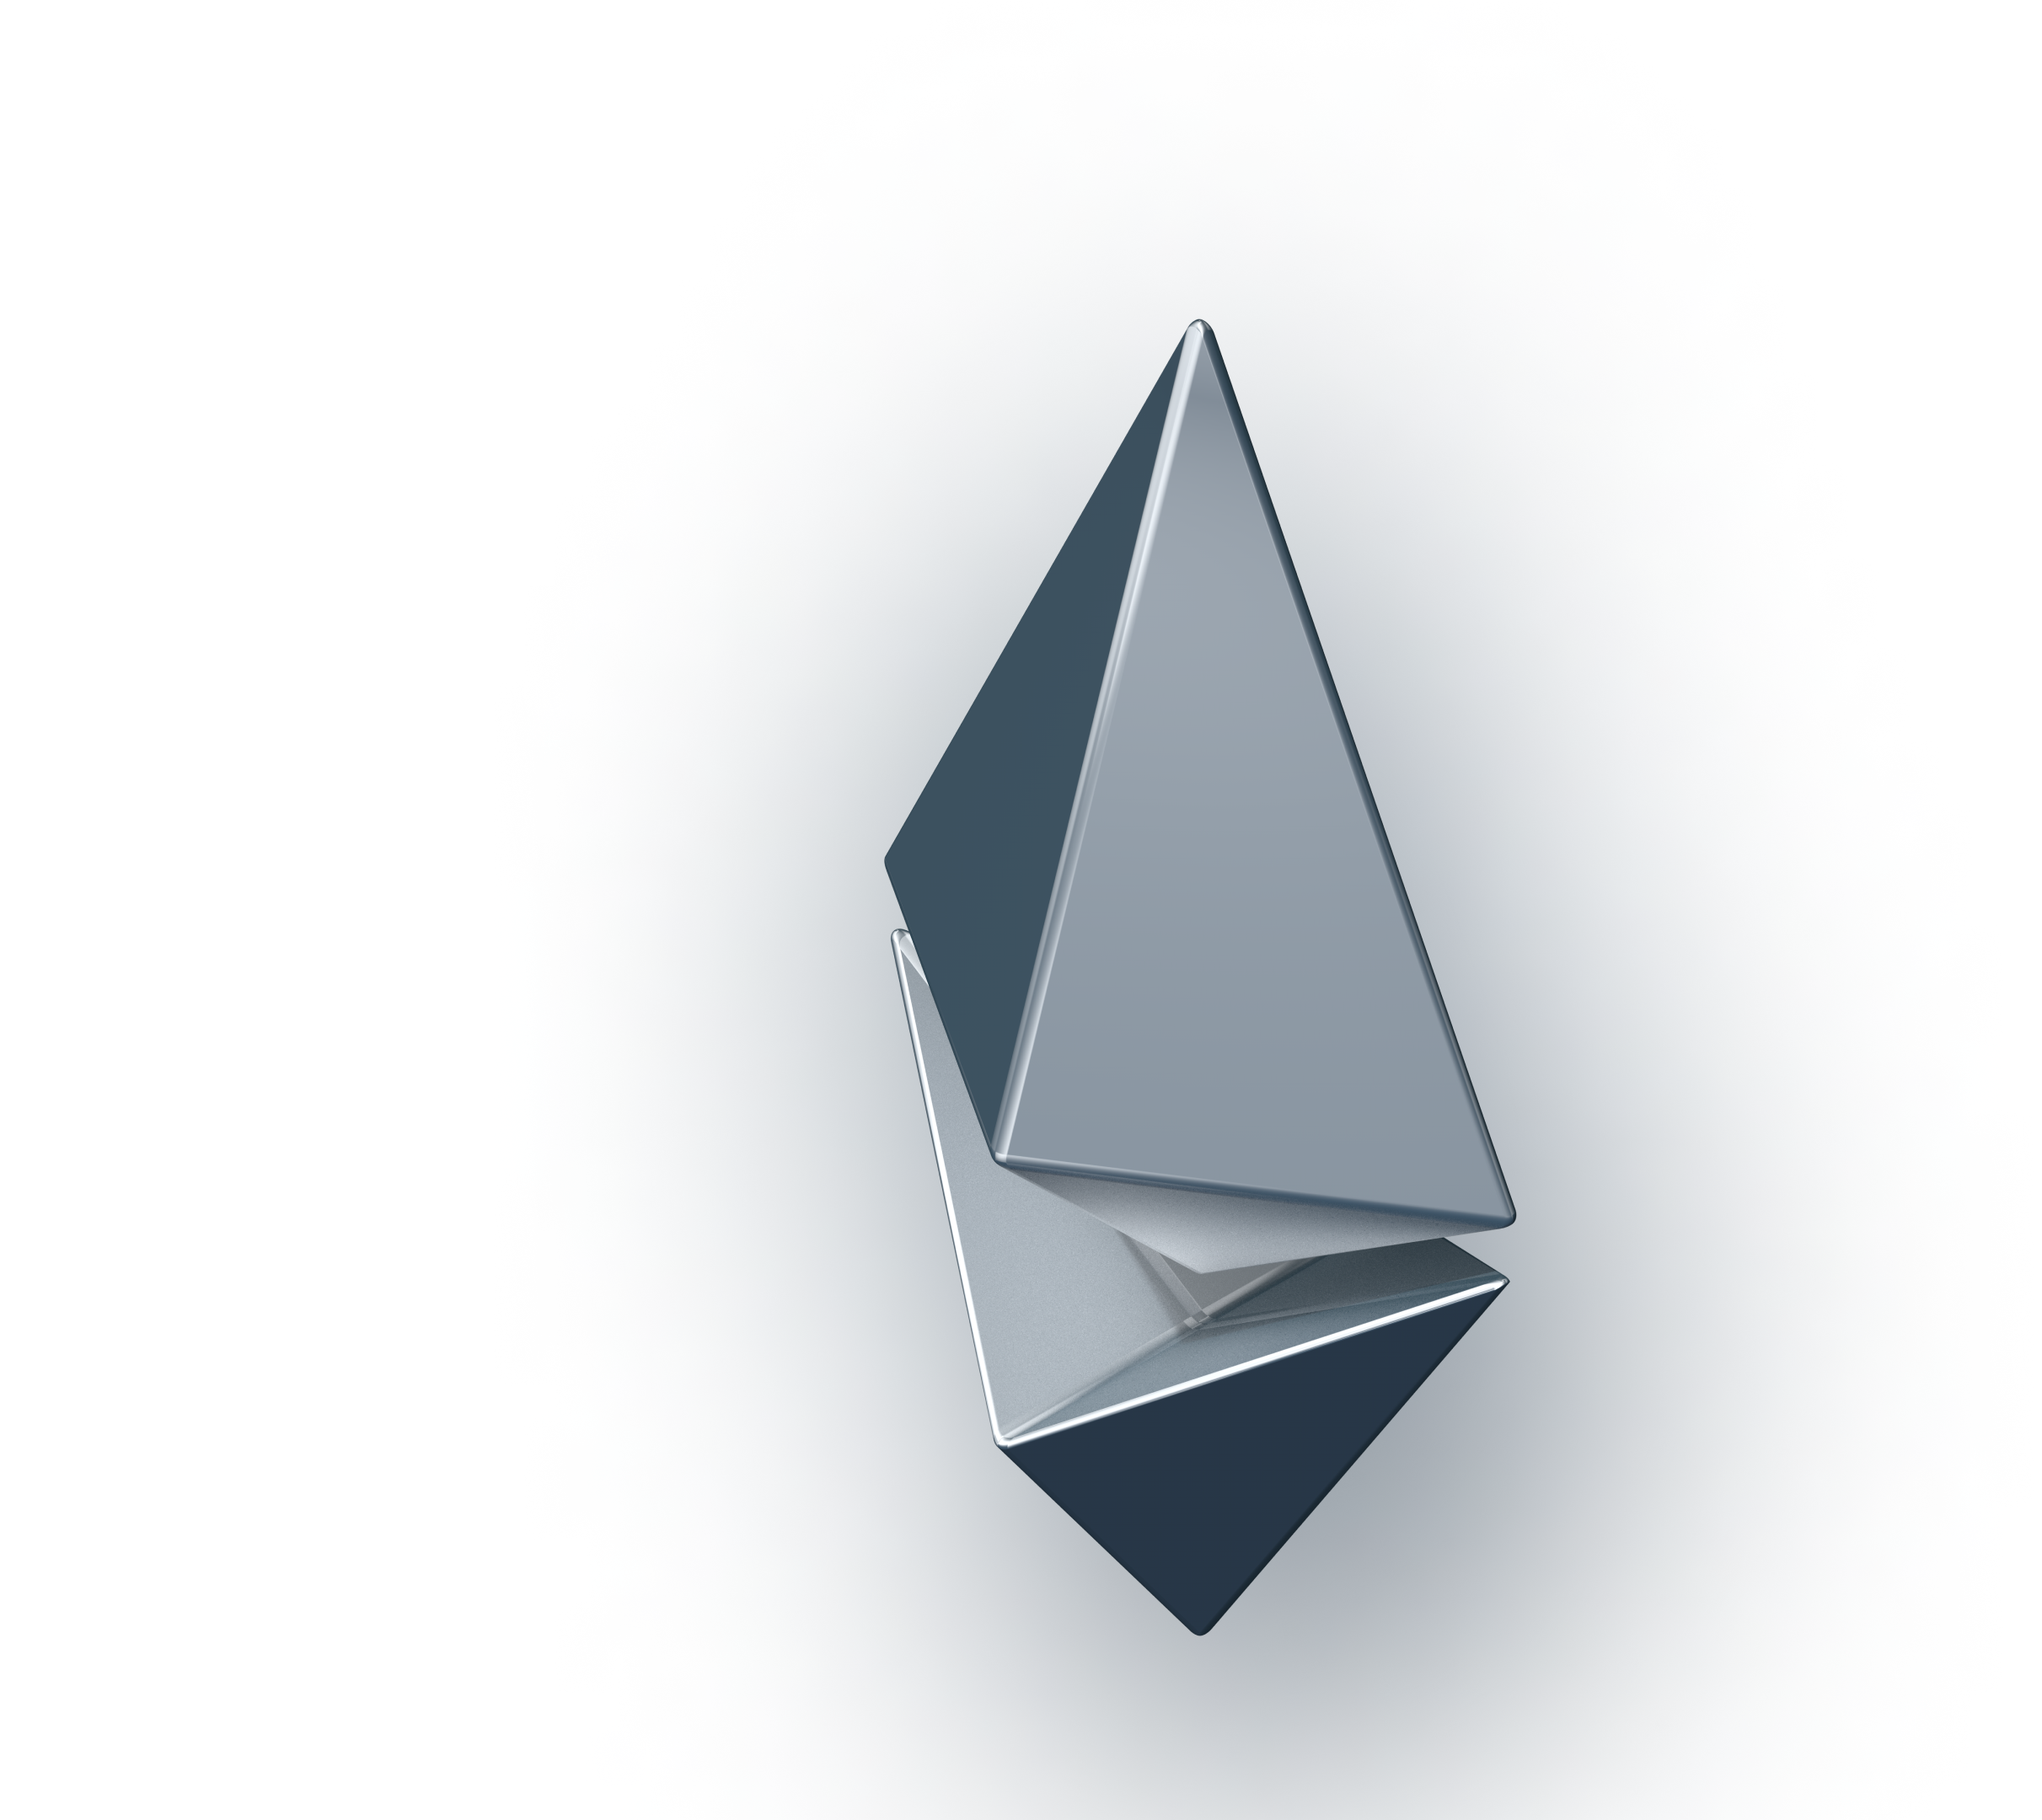
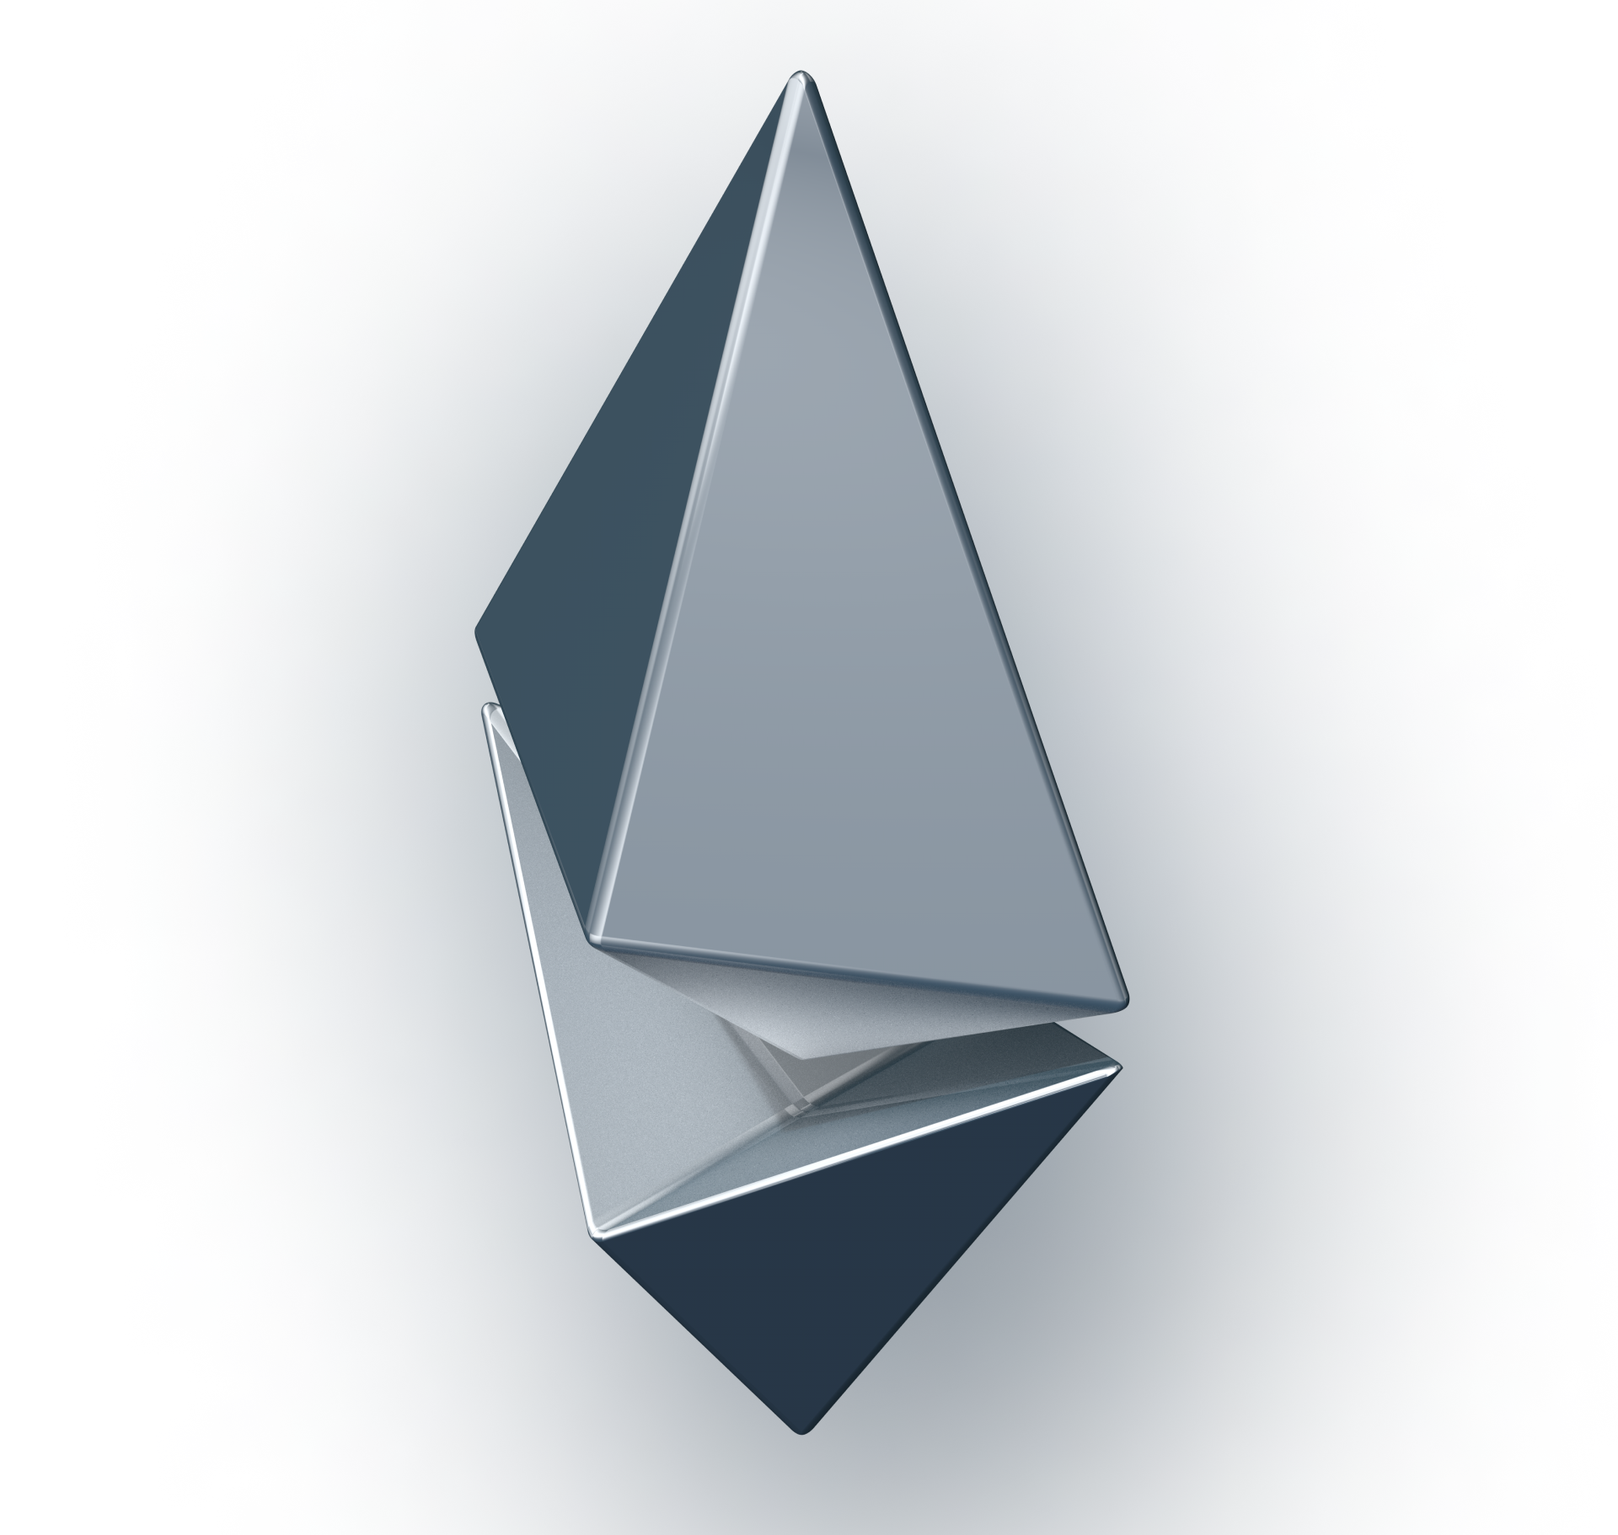
img

Changed region(s): [[0.1875, 0.0307, 0.75, 1.0]]

diff --git a/style/style.css b/style/style.css
@@ -232,6 +232,7 @@ button {
   align-items: center;
 
   padding: 81px 0;
+  padding: 81px 0 40px 0;
   display: grid;
   grid-template-columns: 1fr 3fr 2fr;
 
@@ -525,28 +526,32 @@ button {
   text-align: center;
 }
 .hiro__image_blur {
-  max-width: 938px;
+  filter: blur(283px);
 }
 .hiro__image {
-  /* position: absolute; */
-  /* top: 0; */
+  position: absolute;
+  top: 0;
   /* max-width: 932px; */
-  /* right: 0; */
+  right: 0;
   /* display: none; */
+  z-index: 1;
 }
 
 .hiro__text {
   flex: 0 0 51%;
-  margin-right: 20px;
+  /* margin-right: 20px; */
   padding-top: 50px;
+  padding-top: 94px;
   padding-left: max(40px, calc(100% - 1294px)/2);
 }
-
+.hiro__image_moby {
+  display: none;
+}
 .hiro__title {
   font-family: a_FuturicaLt, sans-serif;
   font-weight: 600;
   font-size: 60px;
-  font-size: calc((100vw - 768px)/(1920 - 768) * (60 - 40) + 40px);
+  font-size: calc((100vw - 768px)/(1920 - 768) * (60 - 35) + 35px);
   line-height: 1.3;
   margin-bottom: 40px;
   max-width: 82%;
@@ -561,6 +566,8 @@ button {
 
 .hiro__start {
   margin-bottom: 124px;
+  display: flex;
+  flex-wrap: nowrap;
 }
 
 .hero__input {
@@ -632,7 +639,7 @@ button {
   }
 
   .hiro__text {
-    flex: 0 0 59%;
+    flex: 0 0 50%;
   }
 
   .header__inner {
@@ -654,9 +661,18 @@ button {
   }
   .hiro__btn {
     width: 280px;
+    height: 48px;
+  }
+  .hiro__start {
+    flex-wrap: wrap;
   }
 }
 @media (max-width: 768px) {
+  .header {
+    padding-top: 30px;
+    padding-bottom: 30px;
+  }
+
   .hiro__title {
     margin-bottom: 35px;    
   }
@@ -670,6 +686,16 @@ button {
   .hiro__about {
     gap: 30px;
     flex-direction: column;
+  }
+  .hiro__text {
+    flex: 100%;
+    padding-top: 60px;
+  }
+  .hiro__image {
+    display: none;
+  } 
+  .hiro__image_moby {
+    display: block;
   }
 }
 @media (max-width: 567px) {

diff --git a/index.html b/index.html
@@ -63,6 +63,8 @@
             <input class="hero__input" type="text" placeholder="Эл.почта / номер телефона">
             <button class="hiro__btn _modal-open" data-modal-open="modal-1" type="submit">Начать</button>
           </div>
+          <!-- <img class="hiro__image_moby " src="image/cript_moby.png" alt="Ethereum"> -->
+          <img class="hiro__image_moby " src="image/cript_moby2.png" alt="Ethereum">
           <ul class="hiro__about">
             <li class="hiro__box">
               <h2 class="hero__subtitle">$76 <span class="hero__subtitle_pd">млрд</span></h2>
@@ -76,7 +78,8 @@
         </div>
         <div class="hiro__img">
           <!-- <img class="hiro__image_blur" src="image/cript_shadow.png" alt="Ethereum"> -->
-          <img class="hiro__image" src="image/cript_Desk.png" alt="Ethereum">
+          <img class="hiro__image_blur" src="image/cript_Desktop.png" alt="Ethereum">
+          <img class="hiro__image" src="image/cript_Desktop.png" alt="Ethereum">
         </div>
       </div>
     </section>
